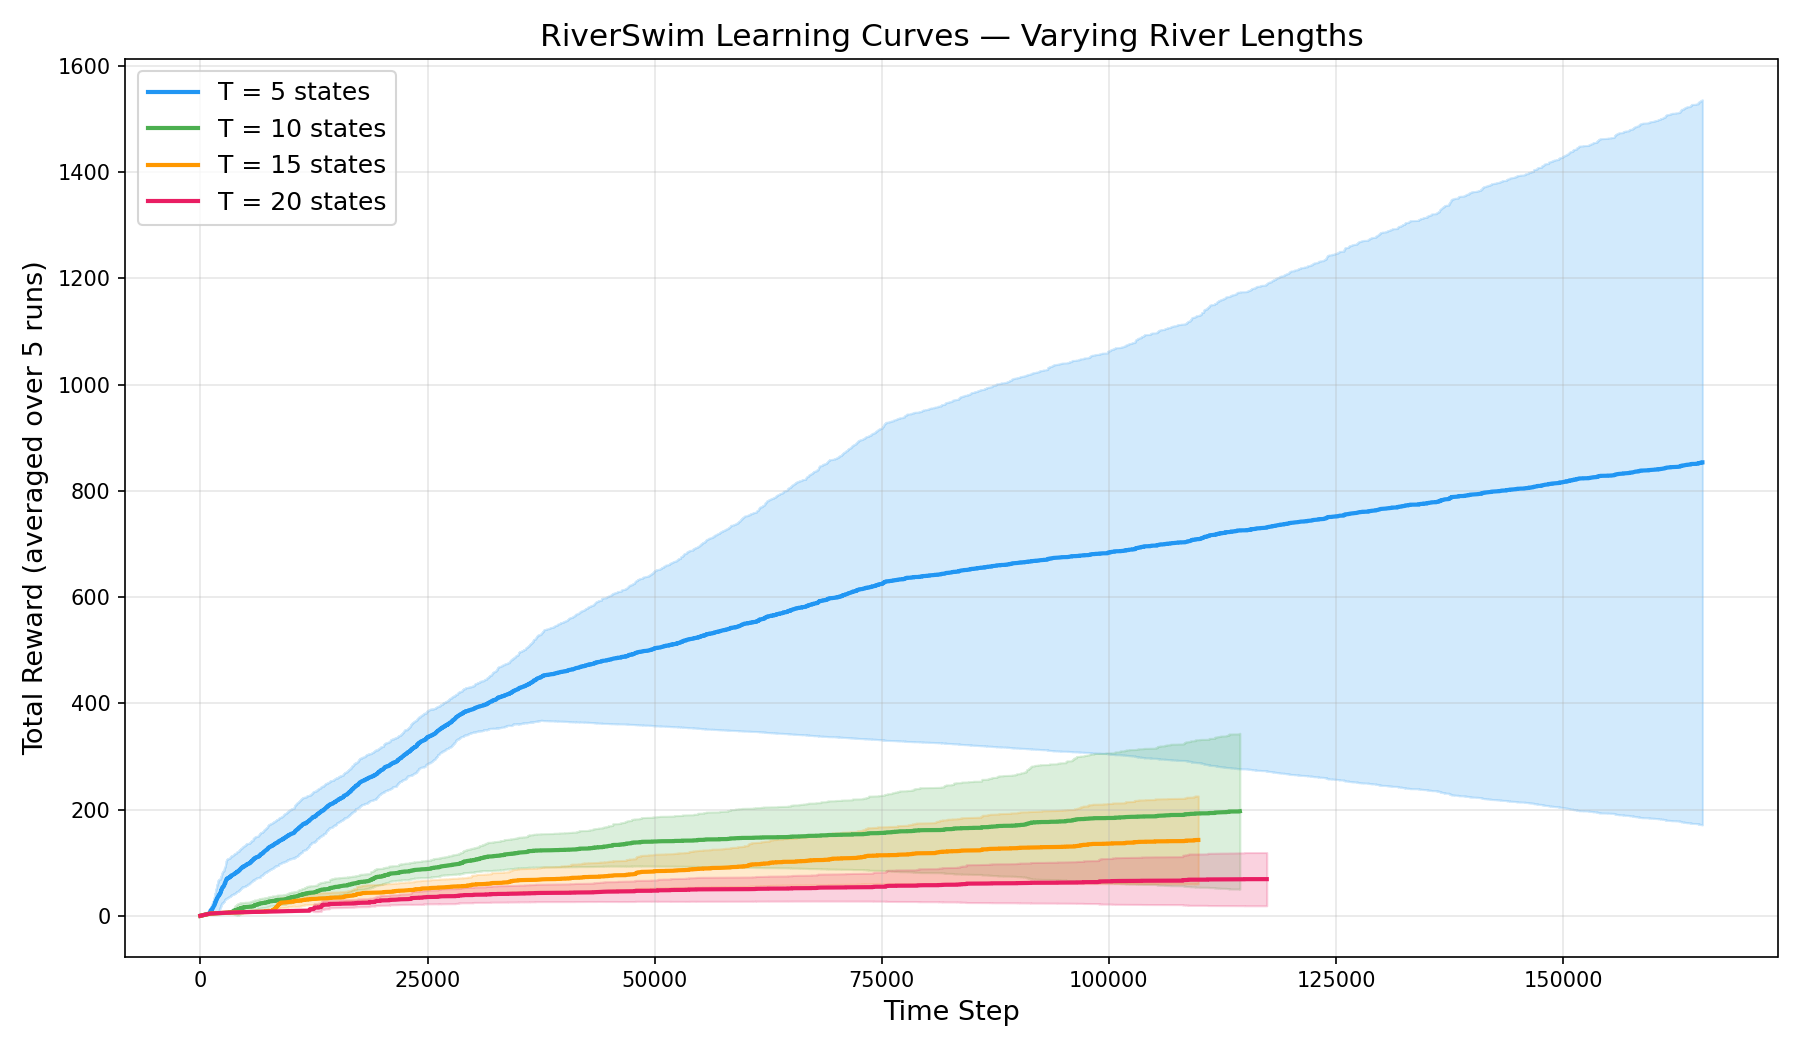
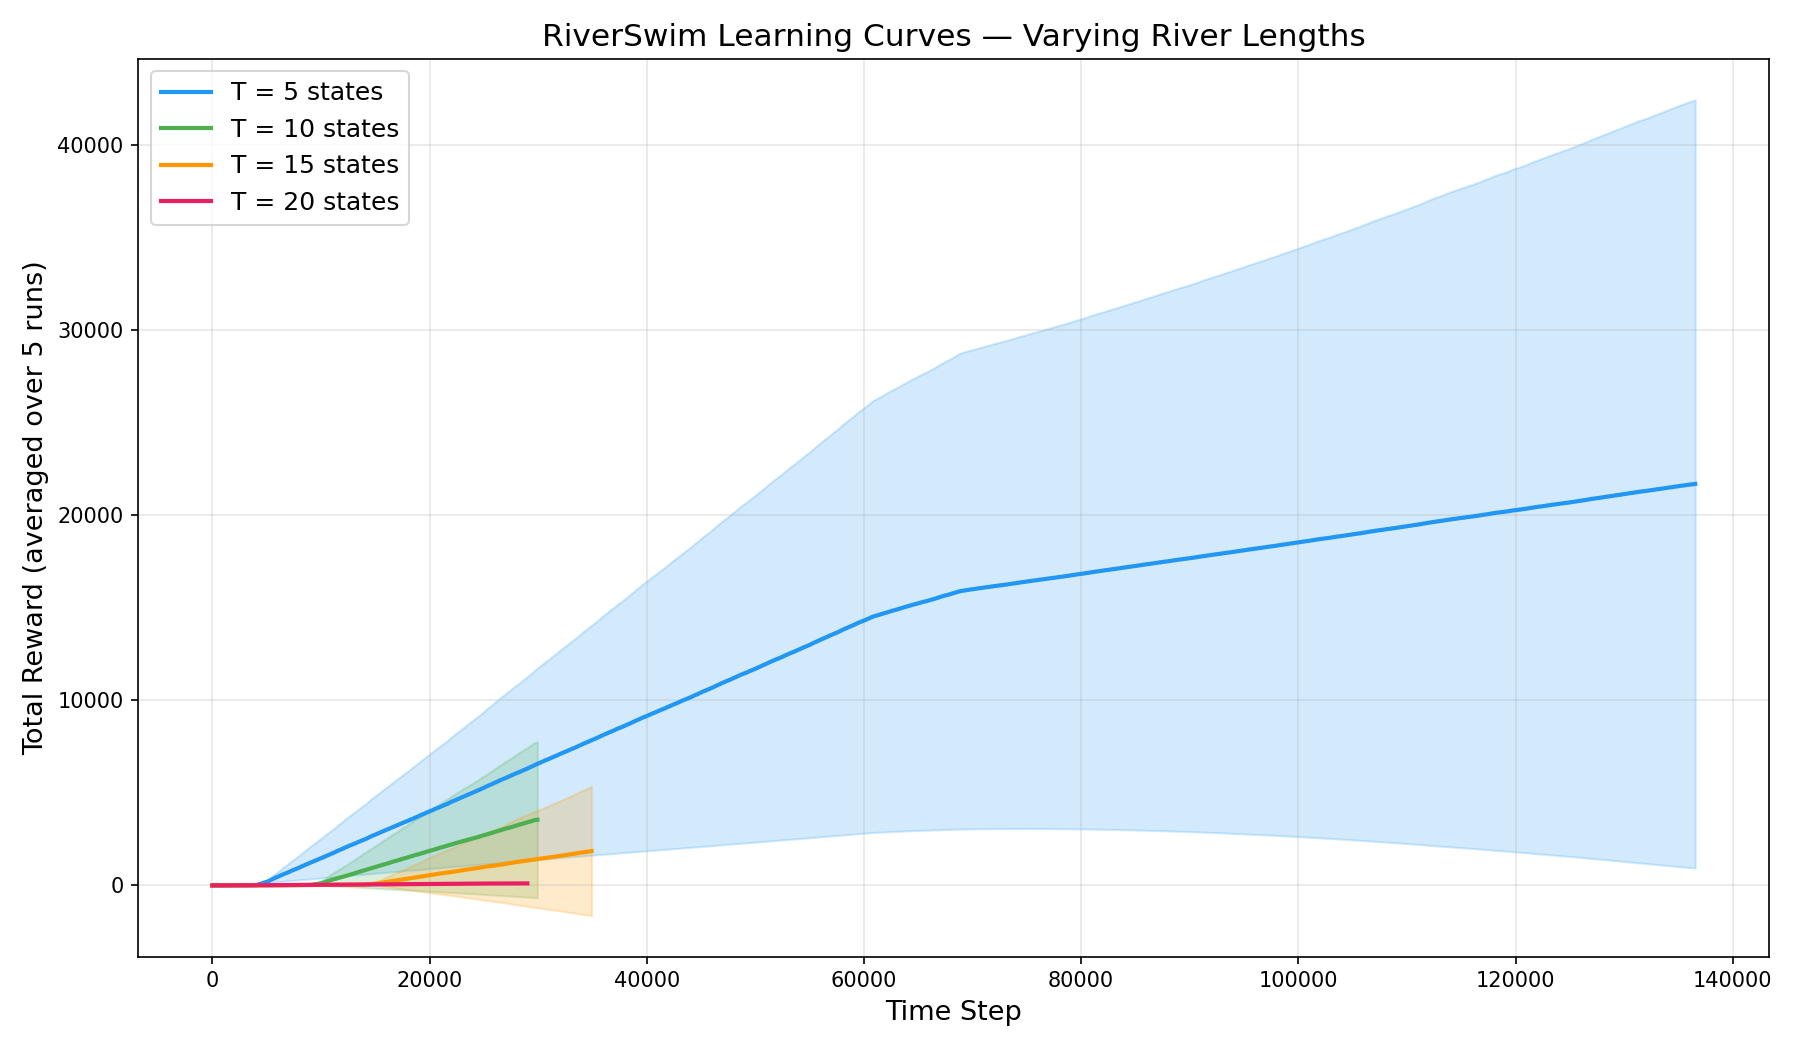
R-MAX implemented

diff --git a/Assigment1.py b/Assigment1.py
@@ -27,9 +27,11 @@ class RiverSwim:
     LEFT = 0
     RIGHT = 1
 
-    def __init__(self, n_states=6, gamma=0.9):
+    def __init__(self, n_states=6, gamma=0.9, m=5):
         self.n_states = n_states
         self.current_state = 0  # start at s_1
+        self.m = m
+        self.R_max = 1.0
 
         # --- States ---
         self.states = list(range(n_states))
@@ -43,10 +45,13 @@ class RiverSwim:
         self.N_sa = np.zeros((self.n_states, len(self.actions)))
 
         self.T_hat = np.zeros((self.n_states, len(self.actions), self.n_states))
+        for s in range(self.n_states):
+            for a in range(len(self.actions)):
+                self.T_hat[s, a, s] = 1.0
 
         self.R_sum = np.zeros((self.n_states, len(self.actions)))
 
-        self.R_hat = np.ones((self.n_states, len(self.actions)))
+        self.R_hat = np.full((self.n_states, len(self.actions)), self.R_max)
 
         self.V = np.zeros(self.n_states)
 
@@ -134,26 +139,30 @@ class RiverSwim:
                 next_state = s_next
                 break
 
-        
-        self.N[self.current_state][action][next_state] += 1
-        self.N_sa[self.current_state][action] += 1
-        # Recompute ALL transition probs for this (s, a) so they sum to 1.0
-        self.T_hat[self.current_state, action, :] = self.N[self.current_state, action, :] / self.N_sa[self.current_state, action]
-        self.R_sum[self.current_state][action] += self.get_reward(next_state)
-        #self.R_hat[self.current_state][action] = self.R_sum[self.current_state][action] / self.N_sa[self.current_state][action]
+        # Only update estimates if we haven't reached the confidence threshold m
+        if self.N_sa[self.current_state][action] < self.m:
+            self.N[self.current_state][action][next_state] += 1
+            self.N_sa[self.current_state][action] += 1
+            self.R_sum[self.current_state][action] += self.get_reward(next_state)
 
+            # Check if threshold reached after this step
+            if self.N_sa[self.current_state][action] == self.m:
+                # Update reward to empirical mean
+                self.R_hat[self.current_state][action] = (
+                    self.R_sum[self.current_state][action] / self.m
+                )
+                # Update transitions to empirical distribution
+                self.T_hat[self.current_state, action, :] = (
+                    self.N[self.current_state, action, :] / self.m
+                )
         
         # Reward depends on which state we land in
         reward = self.get_reward(next_state)
 
-        # Only update the reward estimate if we've actually seen a reward > 0
-        # This keeps the 'hope' (the 1.0) alive for states we haven't reached yet.
-        if reward > 0:
-            self.R_hat[self.current_state][action] = self.R_sum[self.current_state][action] / self.N_sa[self.current_state][action]
-
+        
         self.current_state = next_state
-        done = False  # non-episodic (continuing task)
-        return next_state, reward, done
+        #done = False  # non-episodic (continuing task)
+        return next_state, reward, False
 
     # =================================================================
     # Exercise 2: Policy Iteration on the ESTIMATED MDP (T_hat, R_hat)
@@ -238,18 +247,7 @@ class RiverSwim:
     # =================================================================
 
     def choose_action(self, epsilon=0.1):
-        """
-        Epsilon-greedy behavior policy.
-
-        With probability (1 - epsilon): follow the learned policy pi(s)  (exploit)
-        With probability epsilon:       pick a random action              (explore)
-        """
-        if random.random() < epsilon:
-            # Explore: random action
-            return random.choice(self.actions)
-        else:
-            # Exploit: follow the current best policy
-            return self.pi[self.current_state]
+        return self.pi[self.current_state]
 
     # =================================================================
     # Training Loop: ties everything together
